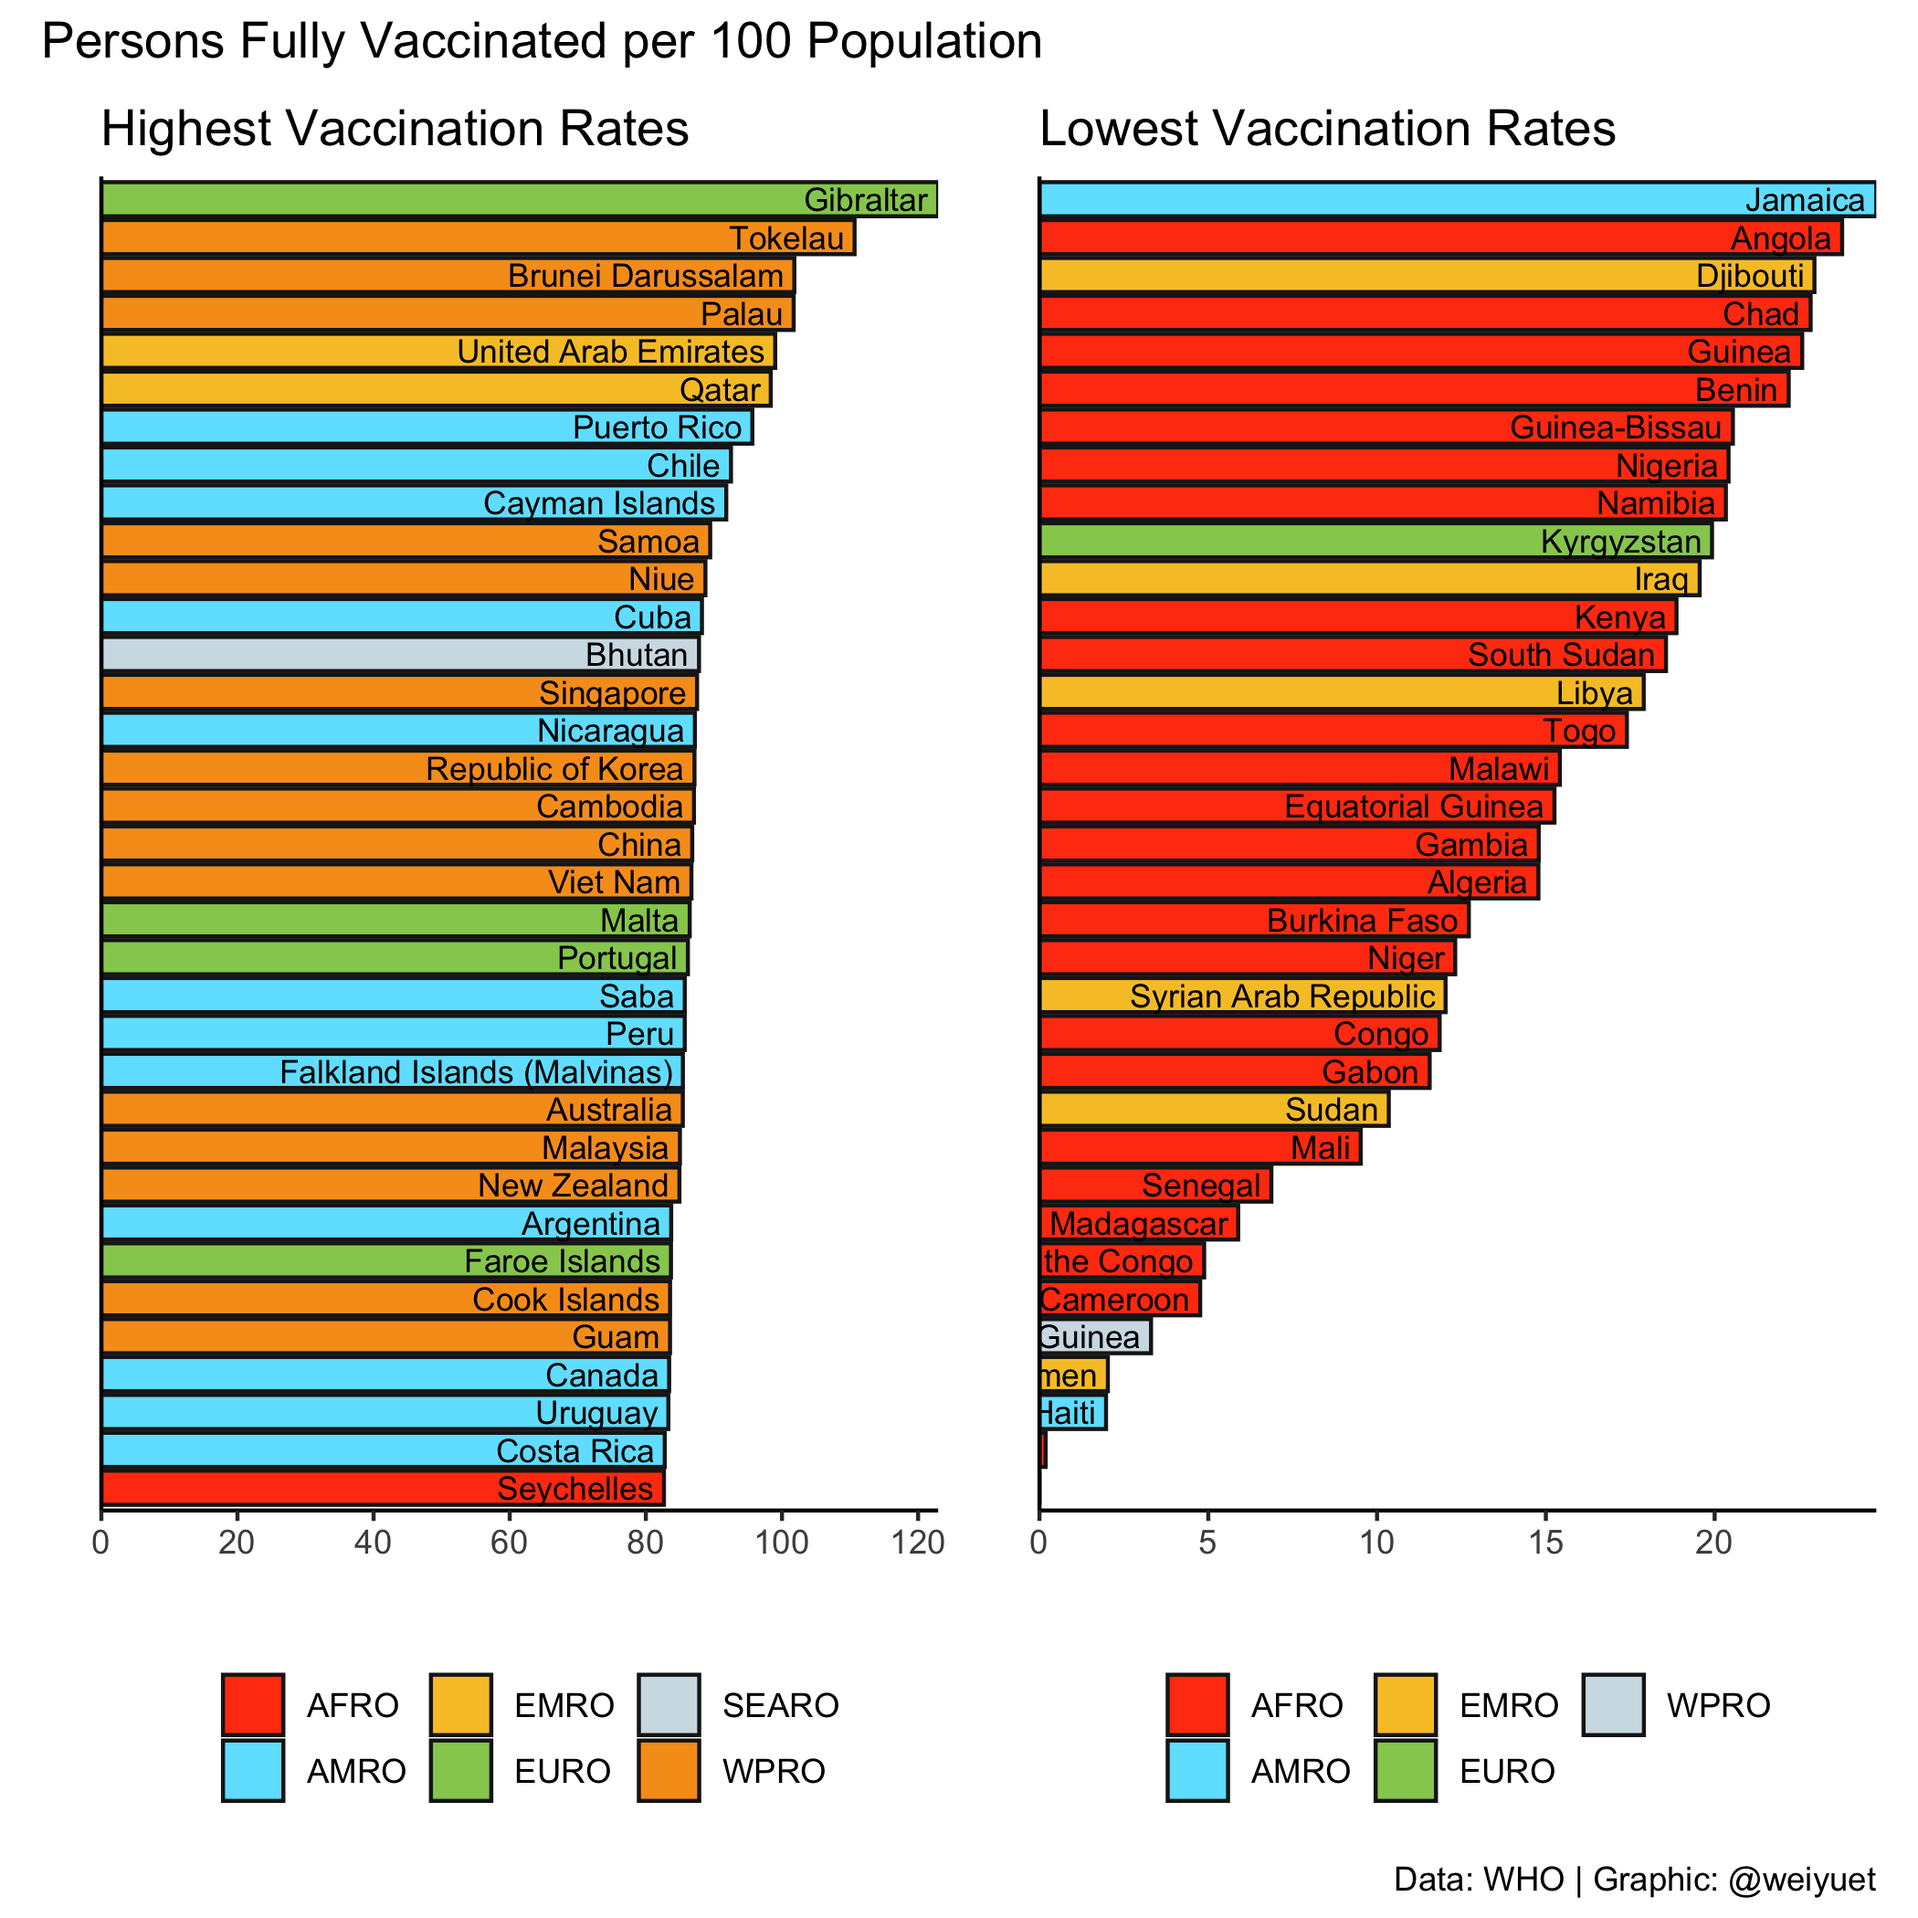
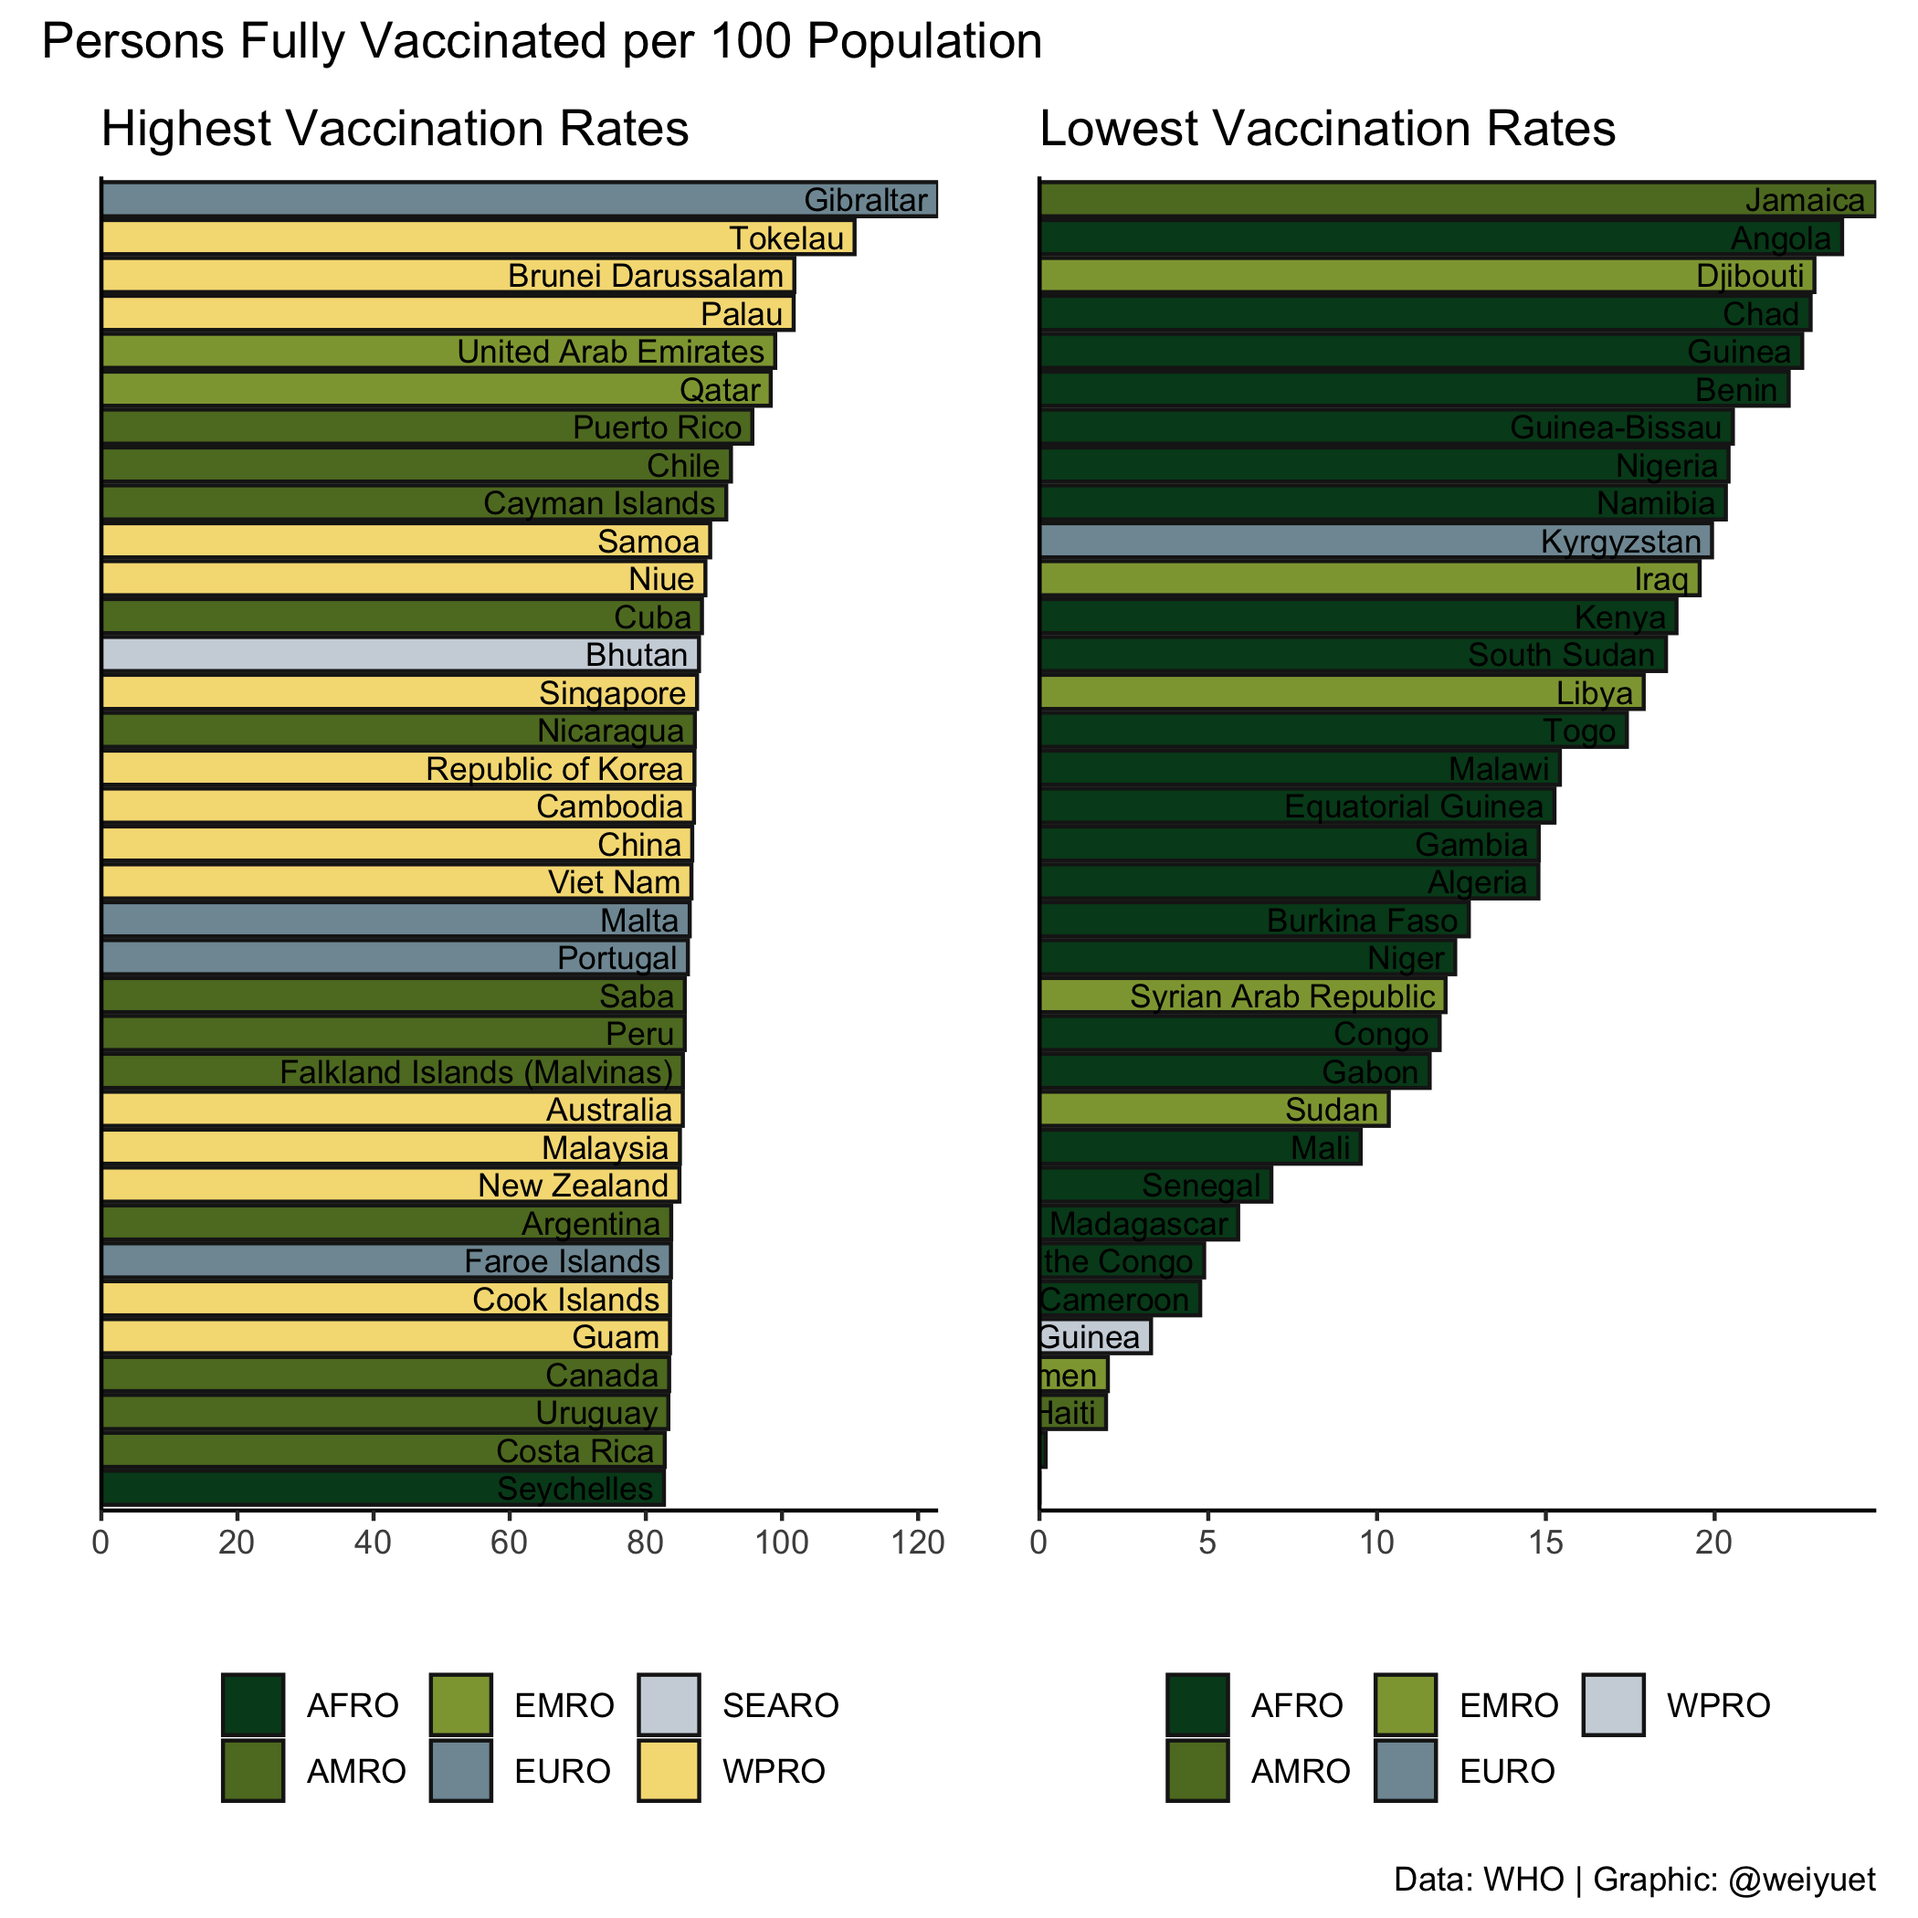
Edited plot aesthetics

diff --git a/README.md b/README.md
@@ -14,9 +14,6 @@ Updated: 2022-10-22
 ## Epidemic Curve in Singapore
 ![](https://github.com/weiyuet/covid/blob/main/figures/covid-epidemic-curve-sg.png)
 
-## Total Cumulative Cases in Singapore
-![](https://github.com/weiyuet/covid/blob/main/figures/covid-cumulative-sg.png)
-
 ## Highest Reported Cases in the Last 7 Days
 ![](https://github.com/weiyuet/covid/blob/main/figures/new-cases-last-seven-days.png)
 
